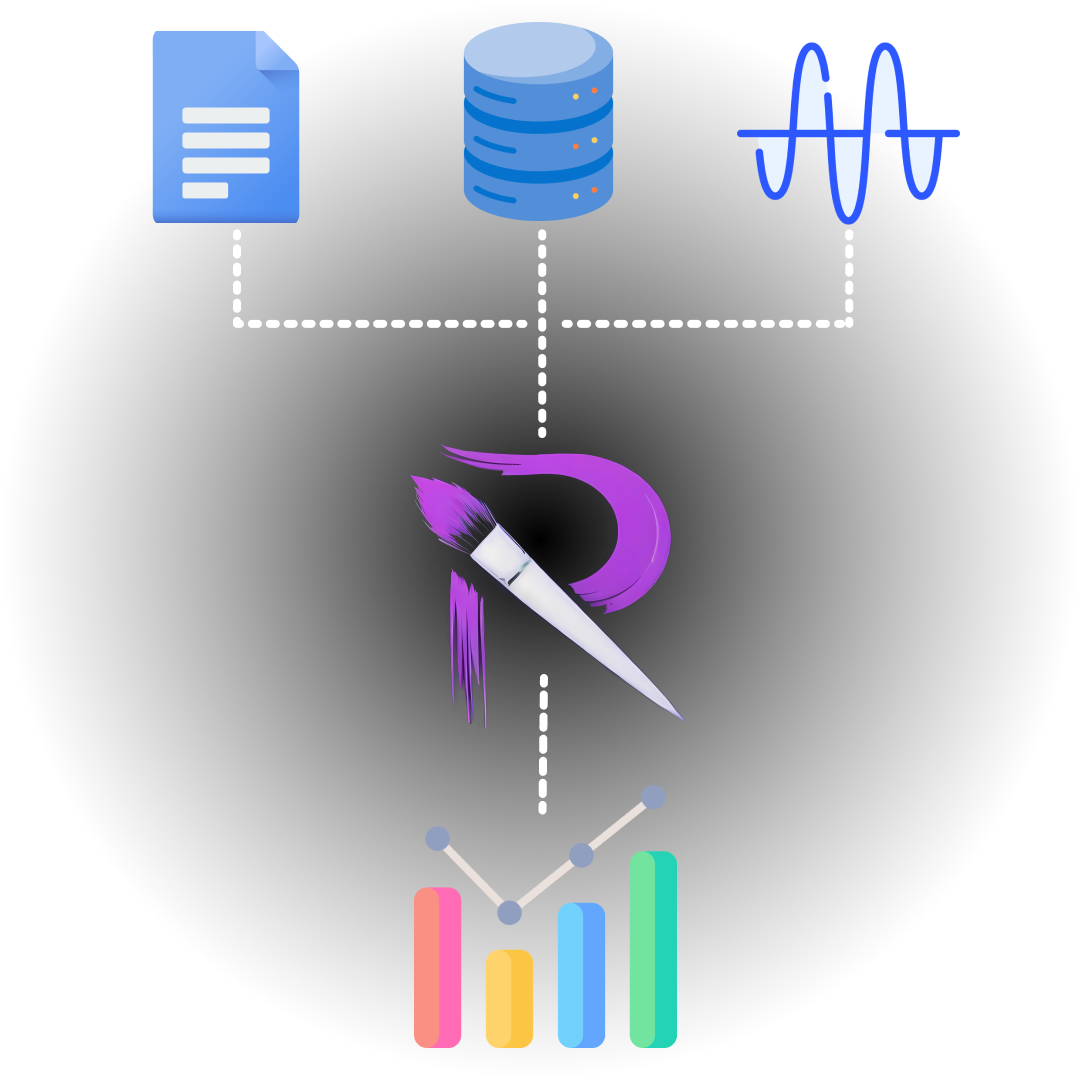
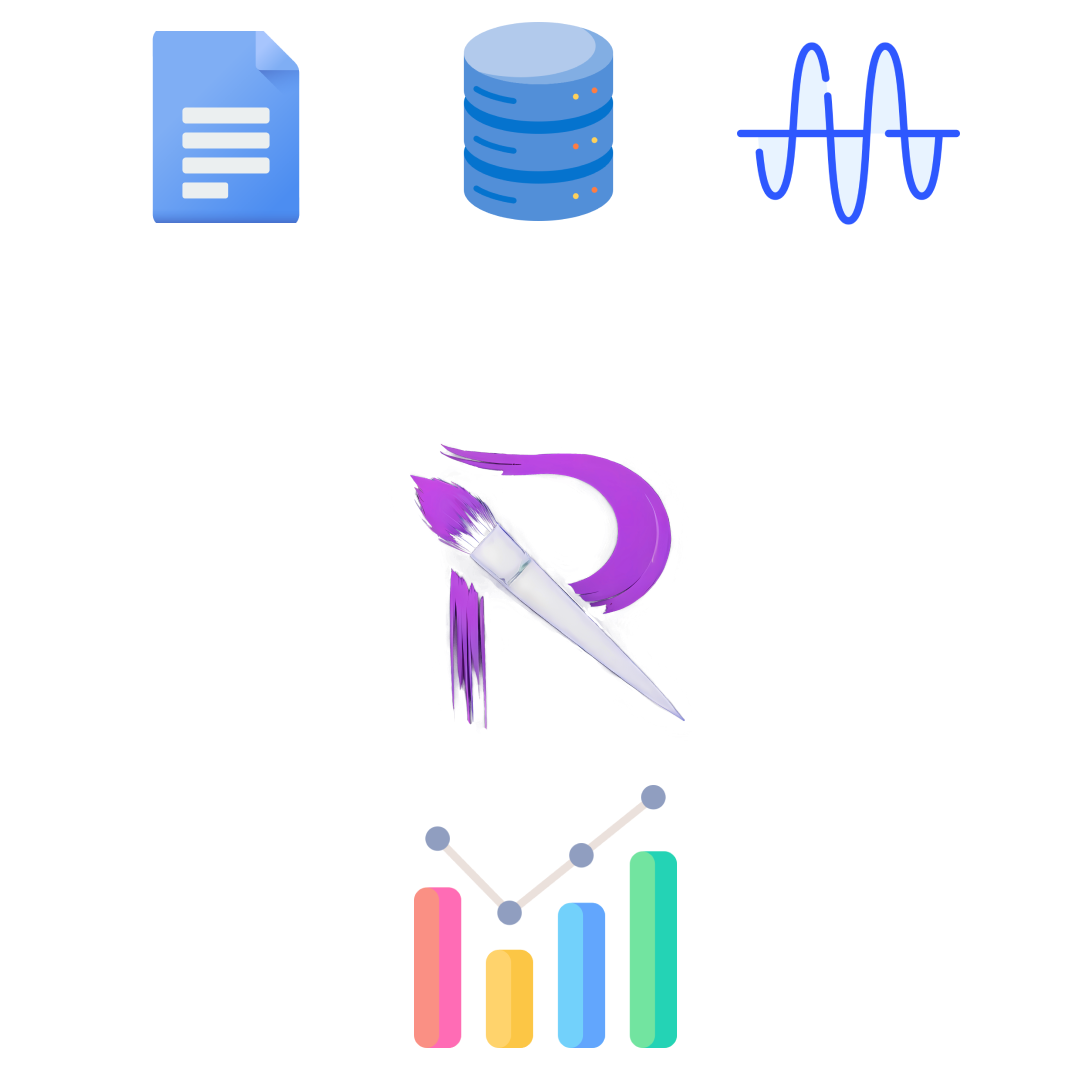
0.1.1 - modify img bg and size

diff --git a/layouts/_default/about-us.html b/layouts/_default/about-us.html
@@ -8,10 +8,10 @@
         </div>
 
     </div>
-        <div class="relative flex  justify-center">
-            {{ $image := .Resources.Get "Renoir_group_black.jpg" }}
+        <div class="relative flex justify-center">
+        {{ $image := .Resources.Get "Renoir_group_black.jpg" }}
         {{ if $image }}
-        <img class="object-scale-down relative max-w-screen-md" src="{{ $image.Permalink }}" alt="{{ .Params.title }}" />
+        <img class="object-scale-down relative max-w-full" src="{{ $image.Permalink }}" alt="{{ .Params.title }}" />
         {{ else }}
         <p>Error: Image not found</p>
         {{ end }}

diff --git a/layouts/partials/components/about-us.html b/layouts/partials/components/about-us.html
@@ -8,9 +8,9 @@
       </div>
     </div>
 
-    <div class="relative flex  justify-center">
-      <img class="object-scale-down relative max-w-screen-md" src="Renoir_group_black.jpg" alt="{{ .Params.title }}" />
-      </div>
+    <div class="relative flex justify-center">
+      <img class="object-scale-down relative max-w-full" src="Renoir_group_black.jpg" alt="{{ .Params.title }}" />
+    </div>
 
     <!-- First Row -->
     <!-- <div class="items-center">
